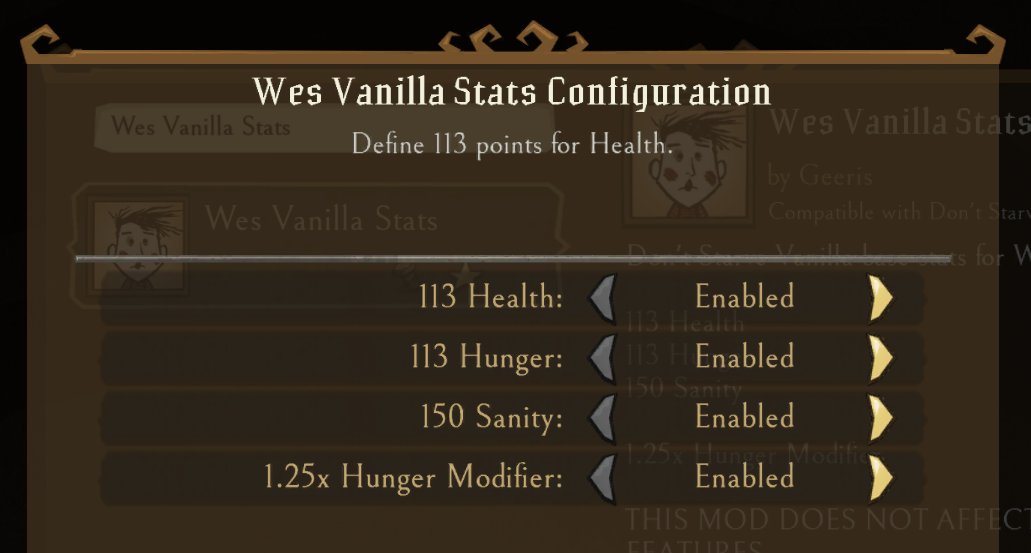
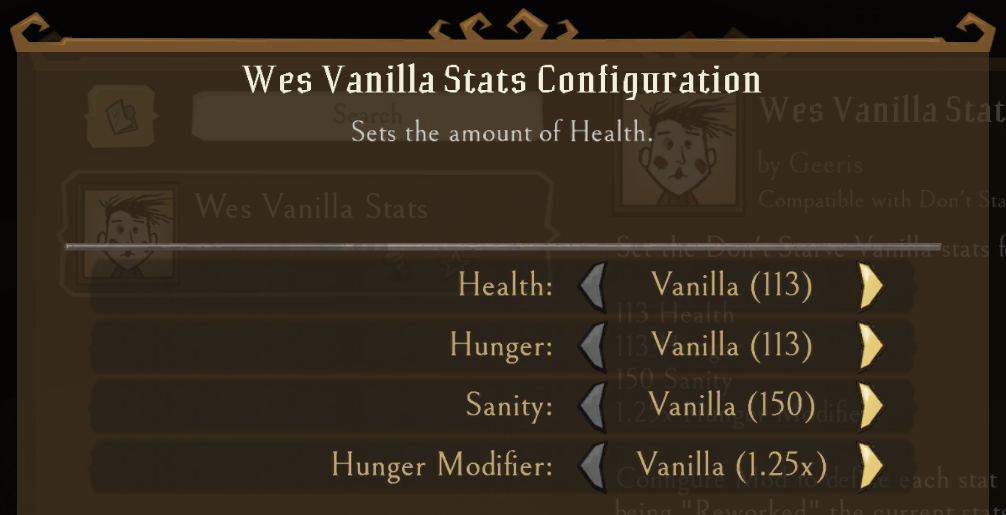
description changes

Changed region(s): [[0.0, 0.0, 1.0, 1.0]]

diff --git a/README.md b/README.md
@@ -1,9 +1,11 @@
 # Wes Vanilla Stats (Don't Starve Together Mod)
-Don't Starve Vanilla base stats for Wes:
+Set the Don't Starve Vanilla stats for Wes:
 
 - 113 Health
 - 113 Hunger
 - 150 Sanity
 - 1.25x Hunger Modifier
 
-THIS MOD DOES NOT AFFECT THE NEW REWORK FEATURES.
+Configure Mod to define each stat for \"Vanilla\" or \"Reworked\", being \"Reworked\" the current stats of the game.
+
+[Wes Vanilla Stats - Download on Steam Workshop](https://steamcommunity.com/sharedfiles/filedetails/?id=2941223138)
